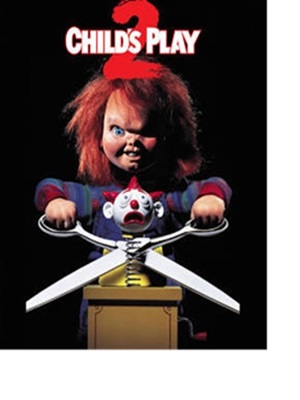
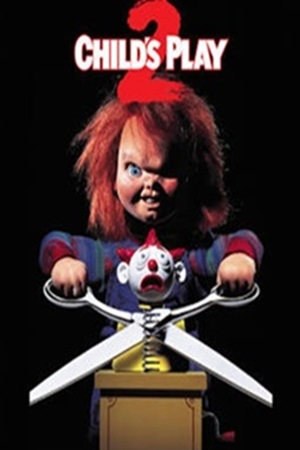
changing size of image, updating an issue

diff --git a/horrorMovies.html b/horrorMovies.html
@@ -41,7 +41,7 @@
     </section>
     <section id="DeadMeat">
     <h1>My Favorite Horror Movie Youtuber: DeadMeat </h1>
-    <iframe width="560" height="315" src="https://www.youtube.com/embed/VgS6jBjjKo0?si=h7pA3WPgvKWeHu9y" title="YouTube video player" frameborder="0" allow="accelerometer; autoplay; clipboard-write; encrypted-media; gyroscope; picture-in-picture; web-share" referrerpolicy="strict-origin-when-cross-origin" allowfullscreen></iframe>
+    <iframe src="https://www.youtube.com/embed/VgS6jBjjKo0?si=h7pA3WPgvKWeHu9y" title="YouTube video player" frameborder="0" allow="accelerometer; autoplay; clipboard-write; encrypted-media; gyroscope; picture-in-picture; web-share" referrerpolicy="strict-origin-when-cross-origin" allowfullscreen></iframe>
     <p> Here is a clip of the kill count for <em>The Thing</em>.
     </section>
   </main>

diff --git a/resume.html b/resume.html
@@ -21,7 +21,7 @@
     <section id="resume">
       <h1>Bryan Guevara</h1>
       <section id="Education">
-        <p class="contact-info"> Chicago, IL | (773) 798-1188 | <a href="mailto:bryg144@gmail.com">bryg144@gmail.com | </a>
+        <p class="contact-info"> Chicago, IL | (773) 798-1188 | <a href="mailto:bryg144@gmail.com">bryg144@gmail.com </a>| 
           <a href="https://www.linkedin.com/in/bryanguevara1/">https://www.linkedin.com/in/bryanguevara1/</a>
         </p>
         <h2>Education</h2>
